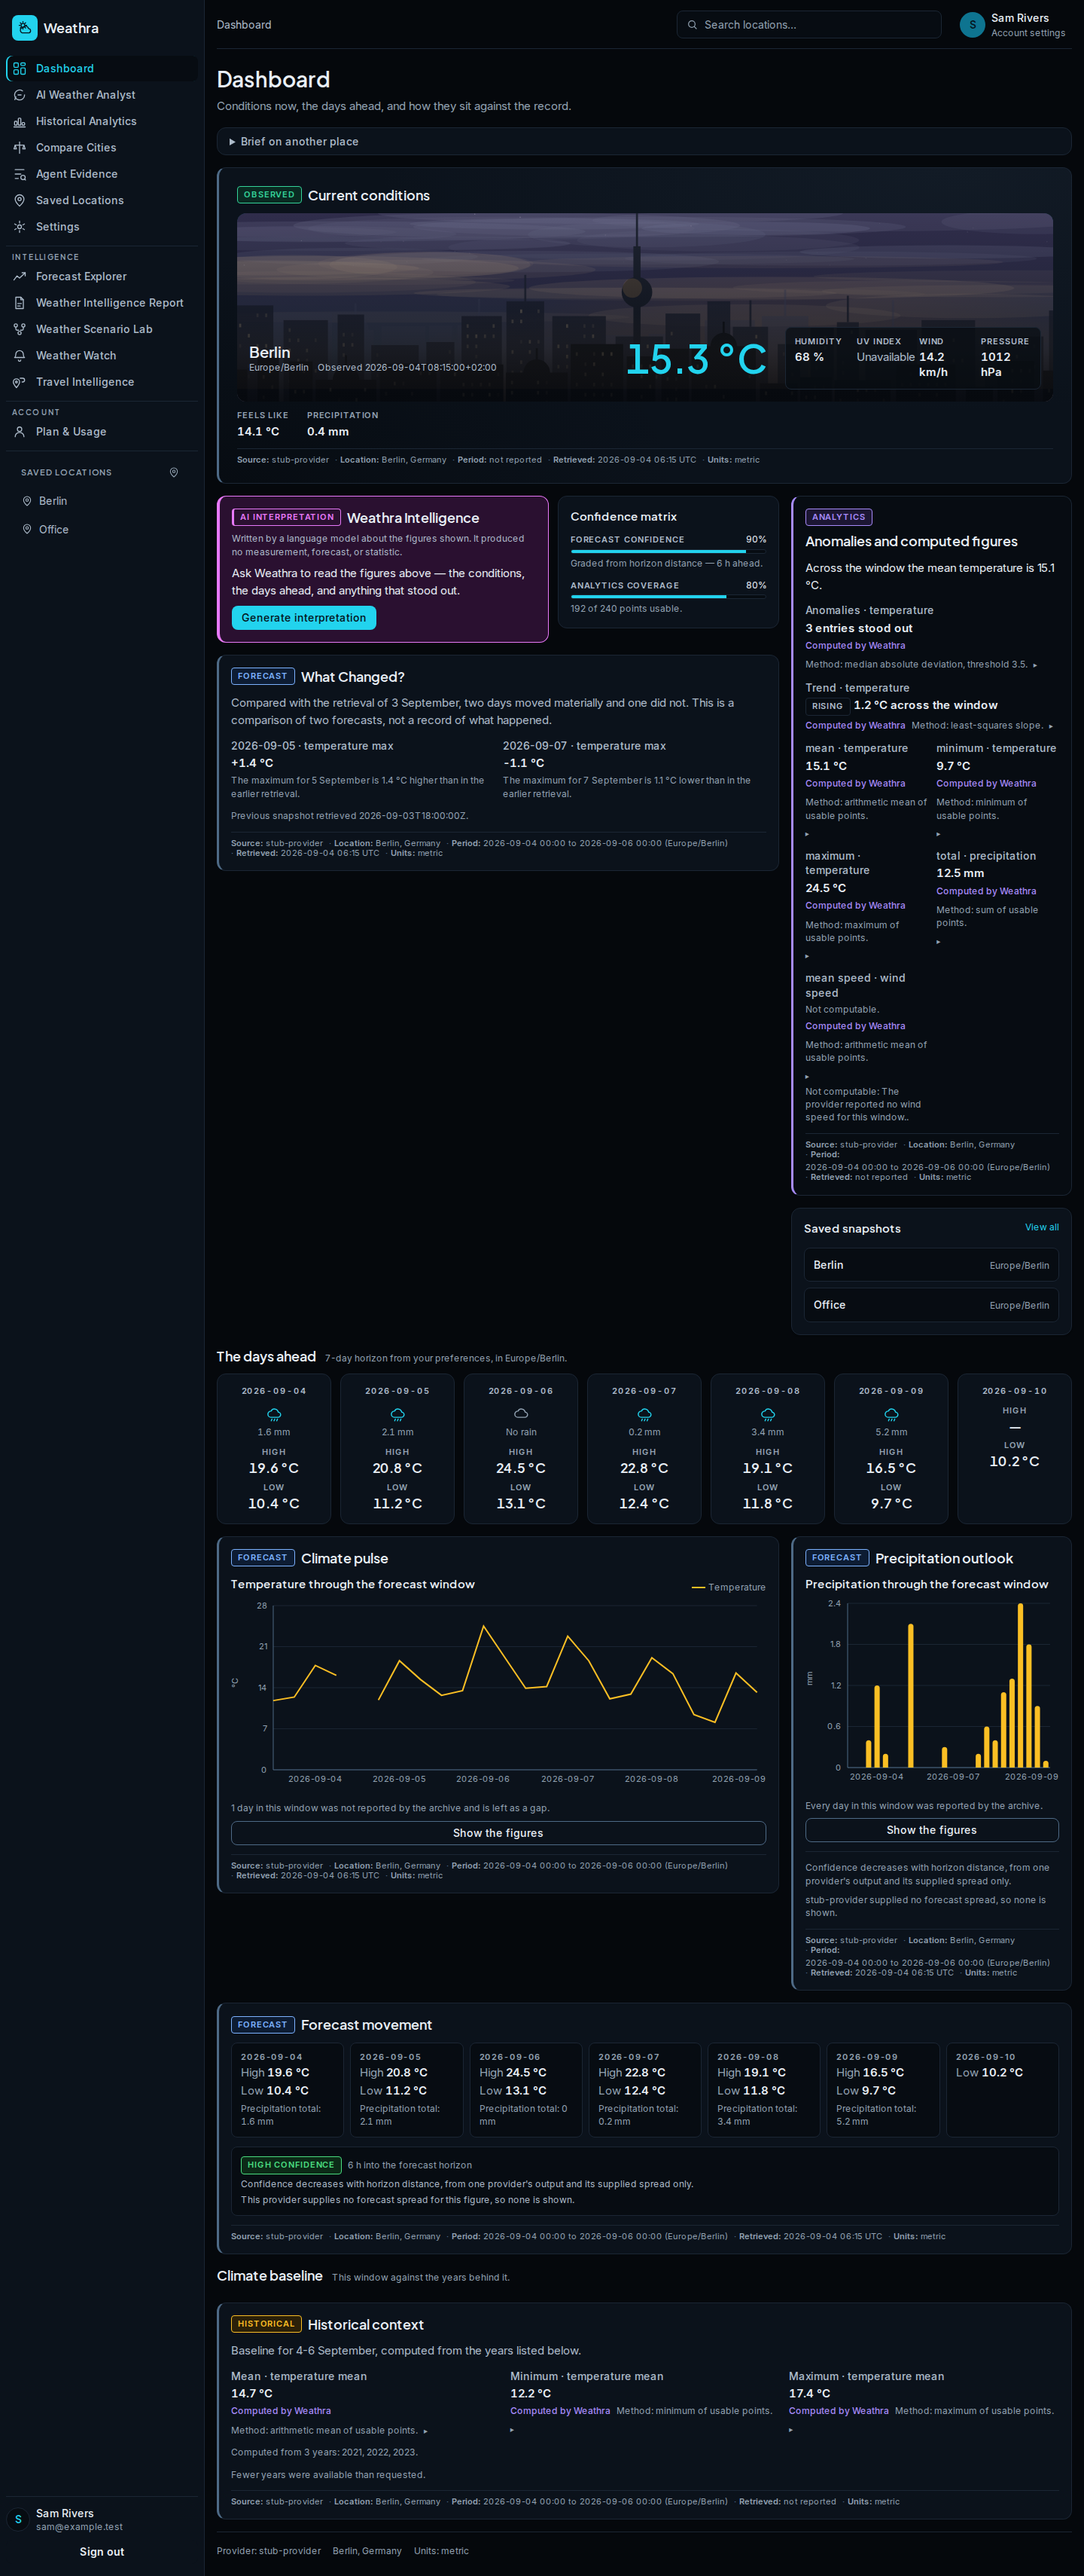
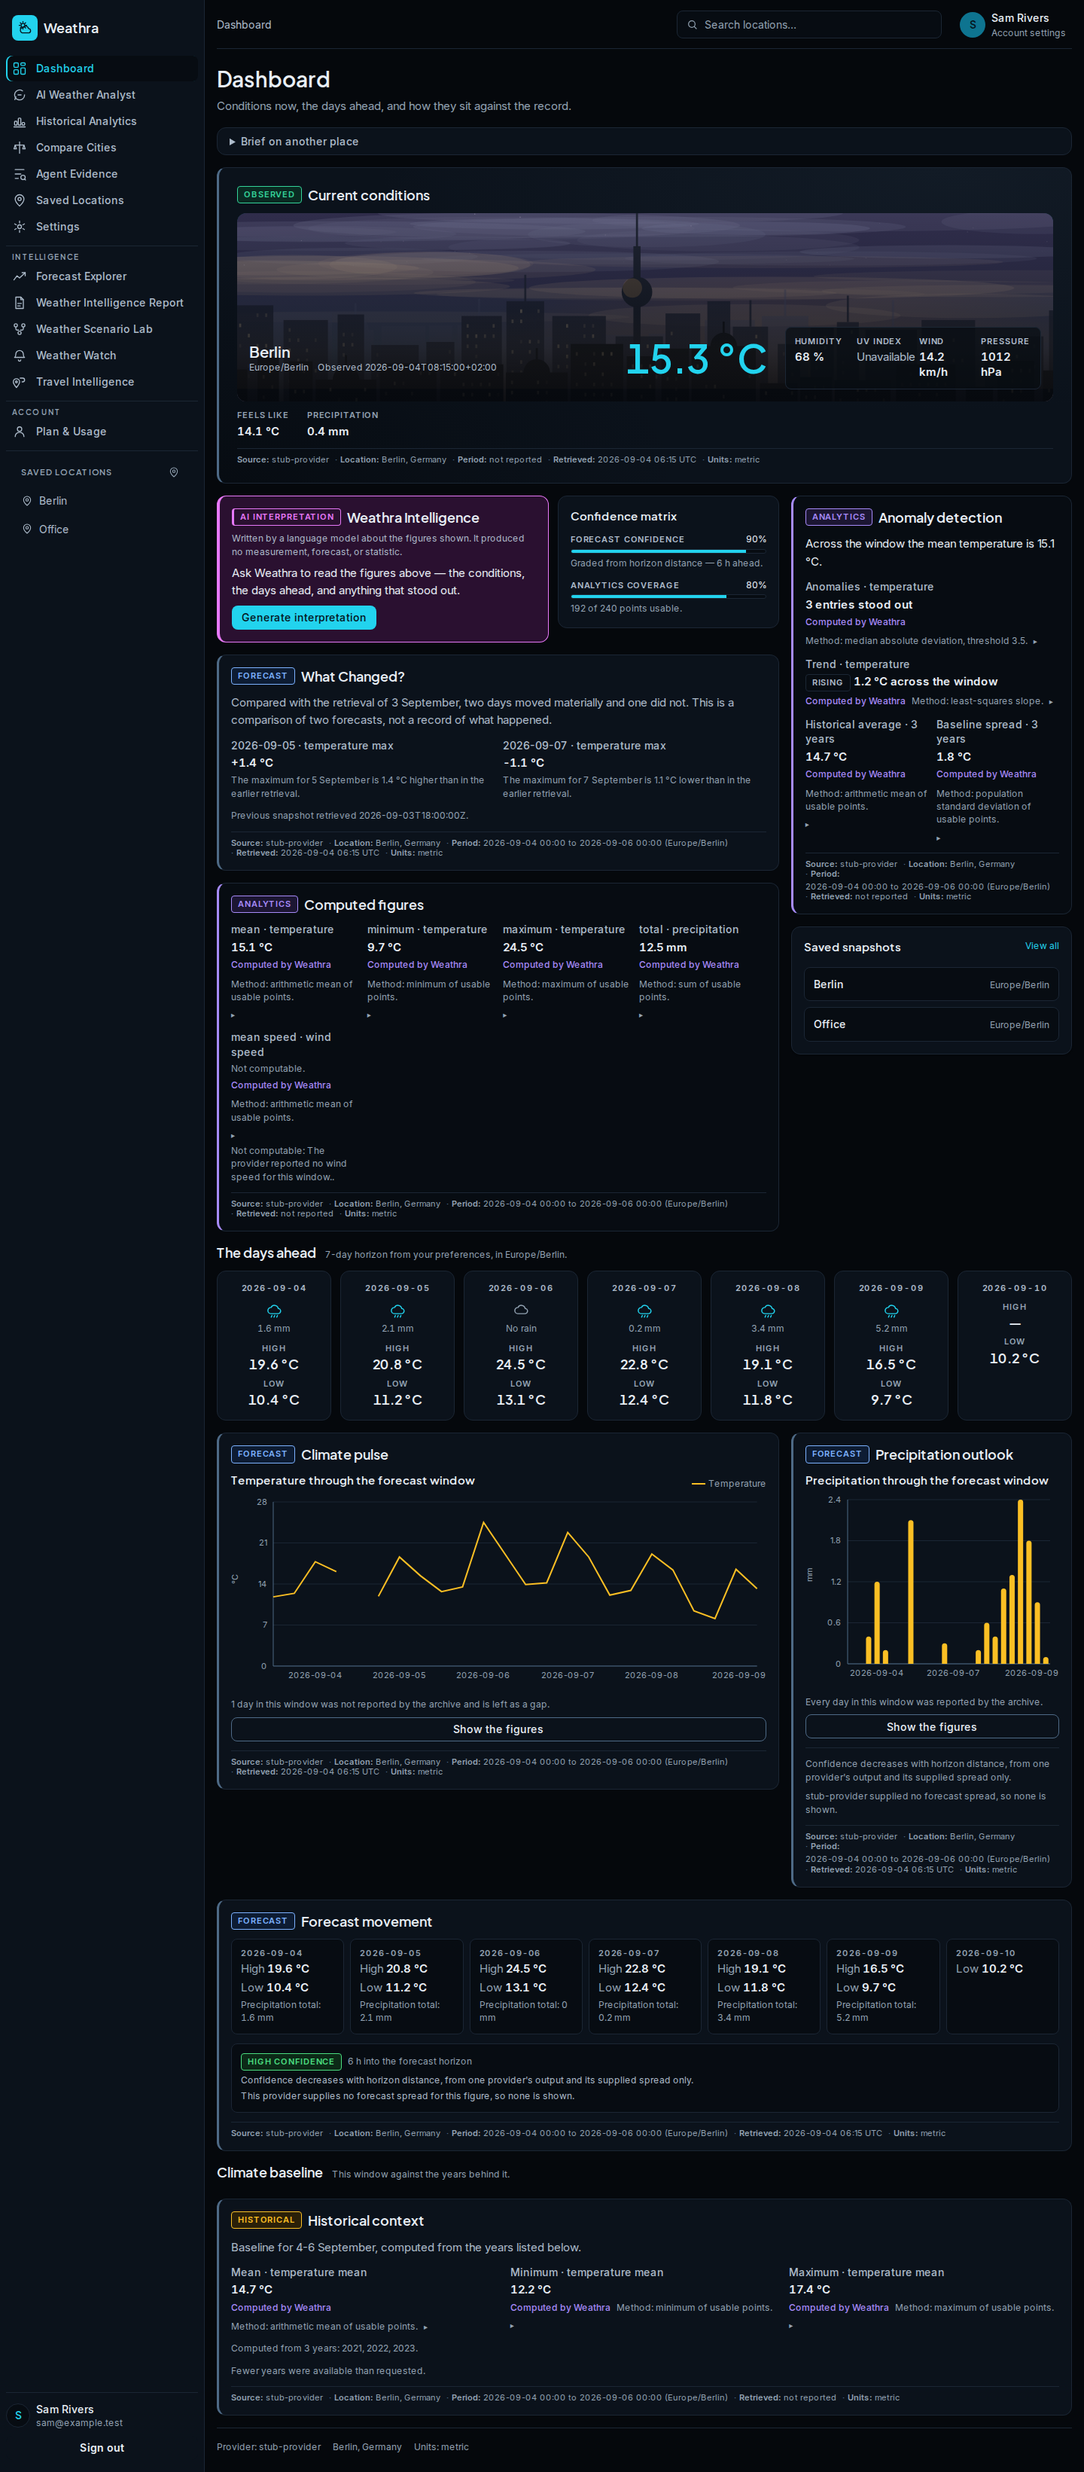
fix(dashboard): divide the intelligence band the way the artifact divides it
`01-dashboard.png`'s right-hand column is short — an anomaly alert, a
historical average, a variance, then three saved snapshots — and its wide left
column carries the interpretation with two cards nested in it. Ours had the
anomaly, the trend *and* six computed statistics with their methods and
provenance all in the narrow column, which made that column about twice the
height of the one beside it and left roughly 360 pixels of page ground under
"What Changed?".

The figures were the wrong half to put there. An anomaly alert is a short
statement and belongs in a rail; six statistics with their arithmetic named are
the screen's substance and belong in the column with room for them. So
`Anomaly detection` keeps the alert and the trend, `Computed figures` is its own
panel in the wide column, and each carries its own attribution — they are read
separately now, and an attribution on only one would leave the other unsourced.

The rail also gains the artifact's closing pair, the historical average and the
spread beside it. Both are the baseline's own statistics with their own methods.
The artifact's second slot is a *deviation*, and there is no endpoint on this
screen that computes one: the analysis and the baseline are two separate reads,
and subtracting one from the other in the component would make the Dashboard the
first place in Weathra that does arithmetic on a figure. Historical Analytics is
where a real deviation lives, over an endpoint built to compute it.

diff --git a/weathra/frontend/components/dashboard/dashboard.test.tsx b/weathra/frontend/components/dashboard/dashboard.test.tsx
@@ -327,7 +327,10 @@ describe("a populated briefing", () => {
       "Current conditions",
       "Forecast movement",
       "What Changed?",
-      "Anomalies and computed figures",
+      // Two panels since the 2026-09-11 parity pass, split the way `01-dashboard.png` splits
+      // this band: the alert in the rail, the statistics in the wide column beside it.
+      "Anomaly detection",
+      "Computed figures",
       "Historical context",
       "Weathra Intelligence",
     ]) {
@@ -376,14 +379,23 @@ describe("a populated briefing", () => {
 
   it("renders the anomalies, the trend, and the computed figures with their methods", async () => {
     renderDashboard();
-    const analytics = await screen.findByRole("region", { name: "Anomalies and computed figures" });
 
-    expect(within(analytics).getByText(/1 entry stood out/)).toBeInTheDocument();
-    expect(within(analytics).getByText(/median absolute deviation/)).toBeInTheDocument();
-    expect(within(analytics).getByText("rising")).toBeInTheDocument();
-    expect(within(analytics).getByText(/least-squares slope/)).toBeInTheDocument();
-    expect(within(analytics).getByText("17.9 °C")).toBeInTheDocument();
-    expect(within(analytics).getAllByText(/Computed by Weathra/).length).toBeGreaterThan(0);
+    /*
+     * Two regions, one band. The anomaly and the trend are the alert half and stay in the rail;
+     * the statistics are the substance half and moved to the wide column. Both still carry their
+     * method, which is the assertion that matters — `specs/deterministic-analytics` requires the
+     * arithmetic to be named wherever the figure is shown, and the split created a second place
+     * for it to be forgotten.
+     */
+    const alert = await screen.findByRole("region", { name: "Anomaly detection" });
+    expect(within(alert).getByText(/1 entry stood out/)).toBeInTheDocument();
+    expect(within(alert).getByText(/median absolute deviation/)).toBeInTheDocument();
+    expect(within(alert).getByText("rising")).toBeInTheDocument();
+    expect(within(alert).getByText(/least-squares slope/)).toBeInTheDocument();
+
+    const figures = await screen.findByRole("region", { name: "Computed figures" });
+    expect(within(figures).getByText("17.9 °C")).toBeInTheDocument();
+    expect(within(figures).getAllByText(/Computed by Weathra/).length).toBeGreaterThan(0);
   });
 
   it("renders the historical baseline stating the years it actually used", async () => {
@@ -759,7 +771,7 @@ describe("data classes, provenance, and the line the model does not cross", () =
       within(screen.getByRole("region", { name: "What Changed?" })).getByText("FORECAST"),
     ).toBeInTheDocument();
     expect(
-      within(screen.getByRole("region", { name: "Anomalies and computed figures" })).getByText("ANALYTICS"),
+      within(screen.getByRole("region", { name: "Computed figures" })).getByText("ANALYTICS"),
     ).toBeInTheDocument();
     expect(within(screen.getByRole("region", { name: "Historical context" })).getByText("HISTORICAL")).toBeInTheDocument();
     expect(
@@ -772,7 +784,14 @@ describe("data classes, provenance, and the line the model does not cross", () =
     await screen.findByRole("region", { name: "Historical context" });
 
     expect(container.querySelectorAll('[data-tier="retrieved"]').length).toBeGreaterThanOrEqual(3);
-    expect(container.querySelectorAll('[data-tier="computed"]')).toHaveLength(1);
+    /*
+     * Two computed regions, and the count stays exact rather than becoming a floor: the analytics
+     * band was split in two on 2026-09-11 — the anomaly alert in the rail, the statistics in the
+     * wide column — and an exact count is what would catch a third appearing by accident. One
+     * interpretation region, which is the tier that must never multiply: every model-written
+     * sentence on this screen belongs to the one panel that says a model wrote it.
+     */
+    expect(container.querySelectorAll('[data-tier="computed"]')).toHaveLength(2);
     expect(container.querySelectorAll('[data-tier="interpretation"]')).toHaveLength(1);
 
     // The model's region contains none of the figures, and none of the figure regions contains it.
@@ -790,7 +809,8 @@ describe("data classes, provenance, and the line the model does not cross", () =
       "Current conditions",
       "Forecast movement",
       "What Changed?",
-      "Anomalies and computed figures",
+      "Anomaly detection",
+      "Computed figures",
       "Historical context",
     ]) {
       const region = screen.getByRole("region", { name: title });
@@ -888,7 +908,7 @@ describe("data classes, provenance, and the line the model does not cross", () =
     expect(screen.getByRole("region", { name: "Current conditions" })).toBeInTheDocument();
     expect(screen.getByText("18.2 °C")).toBeInTheDocument();
     expect(screen.getByRole("region", { name: "Saved snapshots" })).toBeInTheDocument();
-    expect(screen.getByRole("region", { name: "Anomalies and computed figures" })).toBeInTheDocument();
+    expect(screen.getByRole("region", { name: "Anomaly detection" })).toBeInTheDocument();
   });
 
   it("shows the provider, model and policy that actually served the briefing", async () => {
@@ -958,7 +978,7 @@ describe("data classes, provenance, and the line the model does not cross", () =
     // Every retrieved and computed surface is untouched.
     expect(screen.getByRole("region", { name: "Current conditions" })).toBeInTheDocument();
     expect(screen.getByText("18.2 °C")).toBeInTheDocument();
-    expect(screen.getByRole("region", { name: "Anomalies and computed figures" })).toBeInTheDocument();
+    expect(screen.getByRole("region", { name: "Anomaly detection" })).toBeInTheDocument();
   });
 });
 

diff --git a/weathra/frontend/components/dashboard/sections.tsx b/weathra/frontend/components/dashboard/sections.tsx
@@ -455,6 +455,22 @@ export interface DeterministicAnalyticsProps {
   readonly location: Location;
 }
 
+export interface AnomalyDetectionProps extends DeterministicAnalyticsProps {
+  /**
+   * The multi-year baseline, where the screen has one.
+   *
+   * `01-dashboard.png`'s anomaly panel closes on "HISTORICAL AVG (OCT) 14.2°C" and
+   * "VARIANCE +3.8°C". The first is the baseline's own mean and is passed straight through. The
+   * second is a *deviation* in the artifact, and no endpoint on this screen computes one — the
+   * analysis and the baseline are two separate reads, and subtracting one from the other here
+   * would make the Dashboard the first place in Weathra that does arithmetic on a figure. So the
+   * slot carries the baseline's own spread instead, which is a statistic the backend computed and
+   * stated a method for. Historical Analytics is where a real deviation lives, over an endpoint
+   * built to compute it.
+   */
+  readonly baseline?: Baseline | null;
+}
+
 /**
  * The figures Weathra computed, badged ANALYTICS — anomalies, trend, and the findings.
  *
@@ -464,14 +480,15 @@ export interface DeterministicAnalyticsProps {
 export function DeterministicAnalytics({
   analysis,
   location,
-}: DeterministicAnalyticsProps): ReactNode {
+  baseline = null,
+}: AnomalyDetectionProps): ReactNode {
   const anomalies = analysis.anomalies?.anomalies ?? [];
   const trend = analysis.trend;
 
   return (
     <ProvenanceSection
       dataClass="analytics"
-      title="Anomalies and computed figures"
+      title="Anomaly detection"
       attribution={attributionOf({
         provider: analysis.provider,
         location: analysis.location ?? location,
@@ -520,13 +537,75 @@ export function DeterministicAnalytics({
         </div>
       ) : null}
 
-      {analysis.findings.length > 0 ? (
+      {/*
+        The artifact's closing pair in this panel: the historical average, and the spread beside
+        it. Both are the baseline's own statistics with their own methods — see
+        `AnomalyDetectionProps.baseline` for why the second is a spread rather than a deviation.
+      */}
+      {baseline ? (
         <ul className={styles.findings}>
-          {analysis.findings.map((result, index) => (
-            <Finding key={`${result.statistic}-${result.measure}-${index}`} result={result} />
-          ))}
+          {(
+            [
+              ["Historical average", baseline.mean],
+              ["Baseline spread", baseline.standard_deviation],
+            ] as const
+          ).map(([label, result]) =>
+            result && typeof result.value === "number" ? (
+              <li className={styles.finding} key={label}>
+                <span className={styles.findingLabel}>
+                  {label} · {(baseline.years_used ?? []).length} years
+                </span>
+                <span className={styles.findingValue}>
+                  {formatReading({ value: result.value, unit: result.unit ?? null })}
+                </span>
+                <MethodNote method={result.method} pointsUsed={result.points_used} />
+              </li>
+            ) : null,
+          )}
         </ul>
       ) : null}
+    </ProvenanceSection>
+  );
+}
+
+/**
+ * The computed figures, as their own panel in the wide column.
+ *
+ * Split out of `DeterministicAnalytics` above, and the split is the artifact's own.
+ * `01-dashboard.png`'s right-hand column is short — an anomaly alert, a historical average and a
+ * variance, then three saved snapshots — while its wide left column carries the interpretation and
+ * its two nested cards. Ours had the anomaly, the trend *and* six computed statistics with their
+ * methods and provenance all in the narrow column, which made that column about twice the height
+ * of the one beside it and left roughly 360 pixels of page ground under "What Changed?".
+ *
+ * The figures were the wrong half to put there. An anomaly alert is a short statement and belongs
+ * in a rail; six statistics with their arithmetic named are the screen's substance and belong in
+ * the column with room for them. Both keep their own provenance, because they are read separately
+ * now and an attribution that only appeared on one of them would leave the other unsourced.
+ */
+export function ComputedFigures({
+  analysis,
+  location,
+}: DeterministicAnalyticsProps): ReactNode {
+  if (analysis.findings.length === 0) return null;
+
+  return (
+    <ProvenanceSection
+      dataClass="analytics"
+      title="Computed figures"
+      attribution={attributionOf({
+        provider: analysis.provider,
+        location: analysis.location ?? location,
+        period: analysis.period,
+        units: analysis.units,
+        fromCache: analysis.from_cache,
+      })}
+    >
+      <ul className={styles.findings}>
+        {analysis.findings.map((result, index) => (
+          <Finding key={`${result.statistic}-${result.measure}-${index}`} result={result} />
+        ))}
+      </ul>
     </ProvenanceSection>
   );
 }

diff --git a/weathra/frontend/components/dashboard/dashboard.tsx b/weathra/frontend/components/dashboard/dashboard.tsx
@@ -68,6 +68,7 @@ import {
   ForecastStrip,
   PrecipitationOutlook,
   SavedSnapshots,
+  ComputedFigures,
   DeterministicAnalytics,
   ForecastMovement,
   HistoricalContext,
@@ -314,6 +315,15 @@ function Briefing({
               report={changes.state.kind === "ready" ? changes.state.data : null}
             />
           )}
+
+          {/*
+            The computed statistics, in the column with room for them. They were in the narrow
+            column with the anomaly alert, which is not how `01-dashboard.png` divides this band —
+            see `ComputedFigures` for what that cost.
+          */}
+          {analysis.state.kind === "ready" ? (
+            <ComputedFigures analysis={analysis.state.data} location={location} />
+          ) : null}
         </div>
 
         <div className={styles.column}>
@@ -322,7 +332,11 @@ function Briefing({
           ) : analysis.state.kind === "error" ? (
             <ErrorState failure={analysis.state.failure} onRetry={analysis.retry} />
           ) : analysis.state.kind === "ready" ? (
-            <DeterministicAnalytics analysis={analysis.state.data} location={location} />
+            <DeterministicAnalytics
+              analysis={analysis.state.data}
+              location={location}
+              baseline={baseline.state.kind === "ready" ? baseline.state.data : null}
+            />
           ) : null}
 
           {/* The artifact's panel beneath the anomaly panel, in the same column. */}
